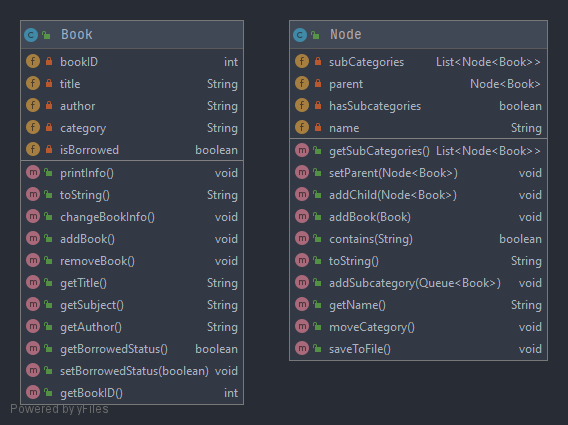
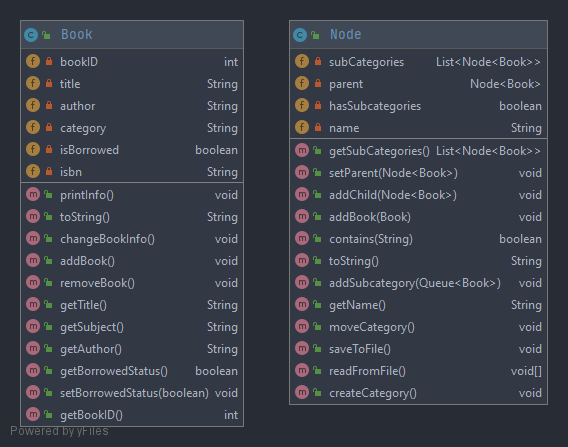
Added methods and updated README.md

Changed region(s): [[0.5088, 0.0306, 0.9577, 0.9176], [0.0299, 0.0306, 0.419, 0.9788], [0.3891, 0.1224, 0.419, 0.1529]]

diff --git a/src/Book.java b/src/Book.java
@@ -6,13 +6,15 @@ public class Book {
     private String author;
     private String category;
     private boolean isBorrowed;
+    private String isbn;
 
-    public Book(int id, String title, String category, String author, boolean isBorrowed) {
+    public Book(int id, String title, String category, String author, boolean isBorrowed, String isbn) {
         this.bookID = id;
         this.title = title;
         this.category = category;
         this.author = author;
         this.isBorrowed = isBorrowed;
+        this.isbn = isbn;
     }
 
     public void printInfo()
@@ -25,8 +27,8 @@ public class Book {
         return (
                 title + '\t' +
                 author + '\t' +
-                category
-        );
+                category + '\t' +
+                isbn);
     }
 
     public void changeBookInfo() throws IOException{}

diff --git a/src/Node.java b/src/Node.java
@@ -15,7 +15,7 @@ public class Node<Book>{
     public void setParent(Node<Book> parent){
         parent.addChild();}
 
-    public void addChild(Node<Book> child){
+    public void addChild(Node<Book> child) {
         Node<Book> subCategory = new Node<Book>();
         child.setParent(this);
         this.subCategories.add(child);
@@ -44,6 +44,10 @@ public class Node<Book>{
     public void moveCategory(){}
 
     public void saveToFile(){}
+
+    public void readFromFile()[]
+
+    public void createCategory(){}
 
 }
 

diff --git a/README.md b/README.md
@@ -3,9 +3,26 @@
 ## Wybrany projekt: System biblioteczny
 
 ## Opis słowny przypadków użycia
-
+- Wyświetlenie informacji o książce
+- Dodanie książki
+- Usunięcie książki
+- Zmiana informacji o książce
+- Wyszukanie książki
+- Wyszukanie Autora
+- Wyszukanie kategorii
+- Wyszukanie podkategorii
+- Dodanie podkategorii
+- Usunięcie podkategorii
+- Przypisanie kategorii do kategorii-matki
+- Wyświetlenie wszystkich podkategorii
+- Zapisanie biblioteki do pliku  
+- Odczyt biblioteki z pliku
+- Zmiana podkategorii
+- Przeniesienie kategorii do innej kategorii-matki
 ## Diagram przypadków użycia
+
 ## Diagram klas
 ![Diagram klas](ClassesDiagram.png)
 ## Repozytorium
-https://gitlab-stud.elka.pw.edu.pl/kdrzewi1/prm2t21lpro\_drzewiecki.git
+https://gitlab-stud.elka.pw.edu.pl/kdrzewi1/prm2t21lpro_drzewiecki
+
